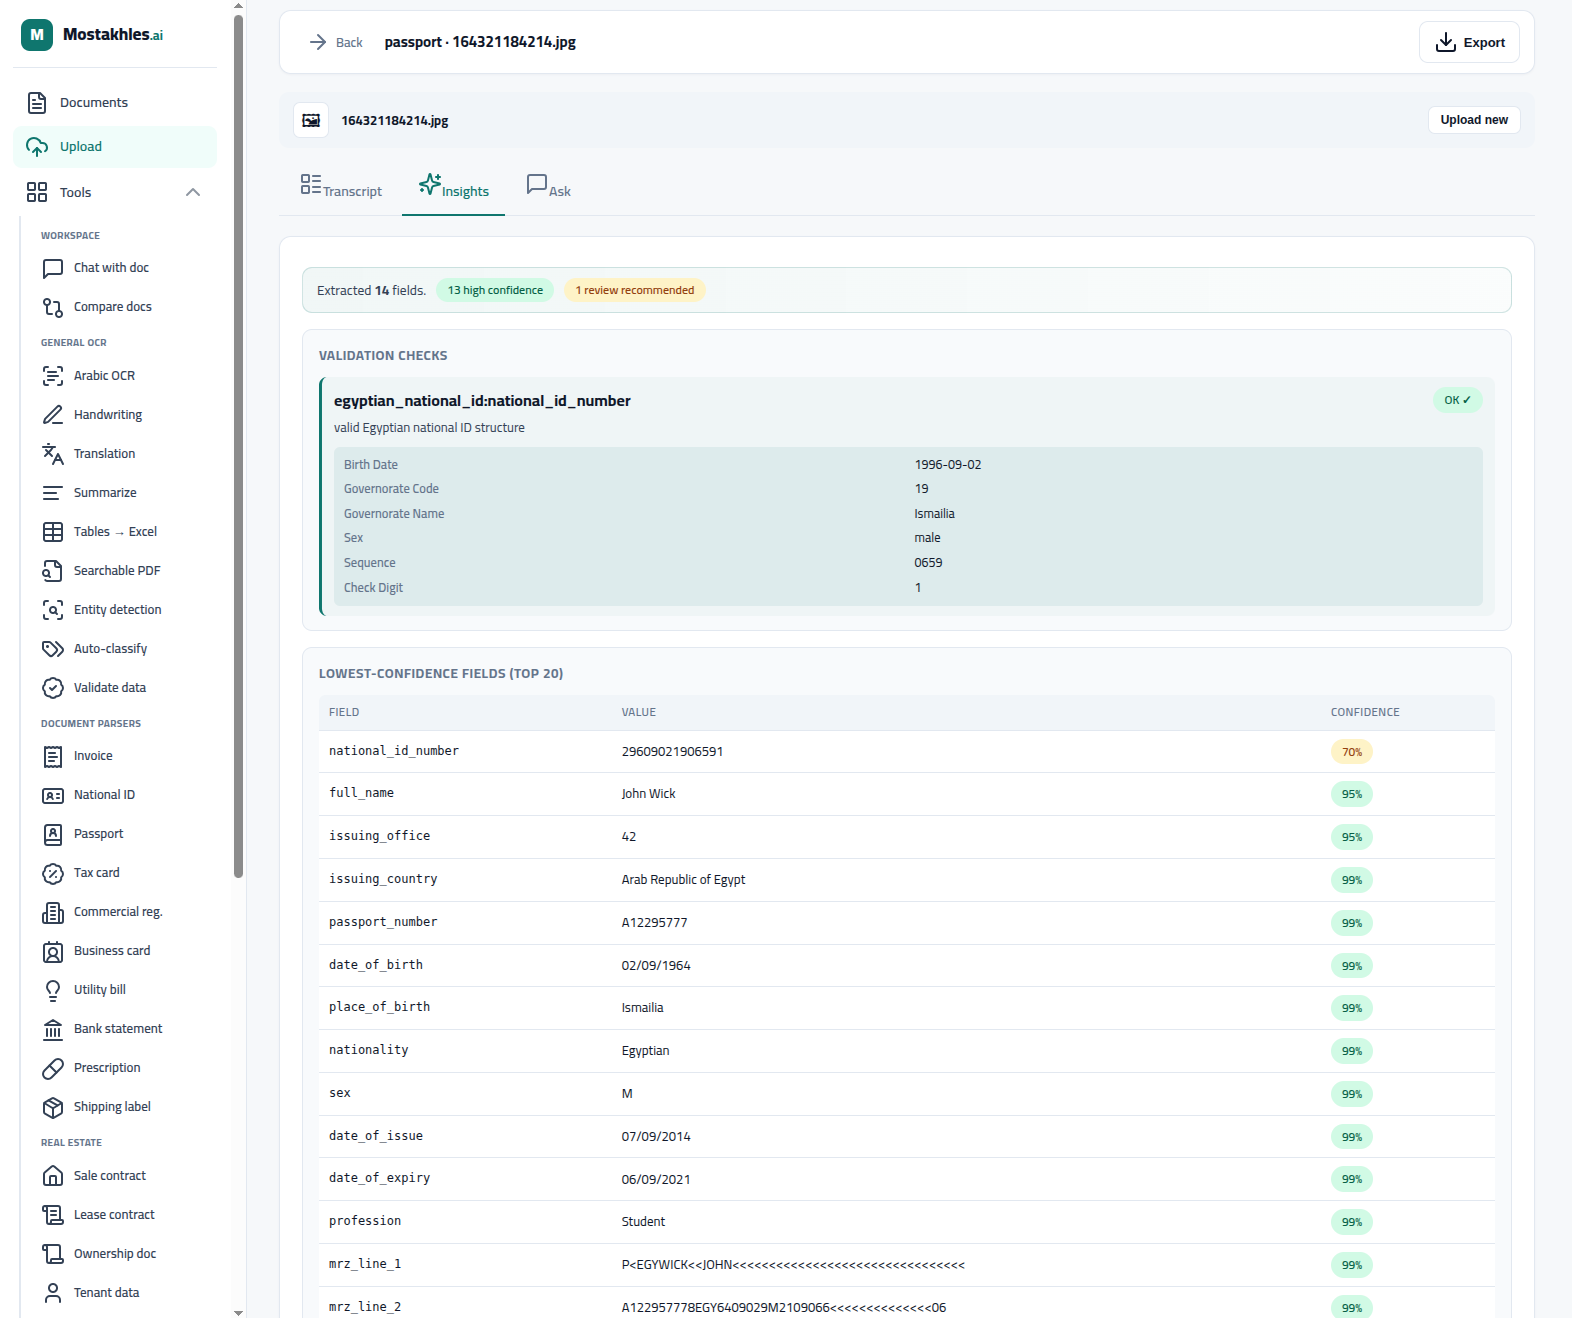
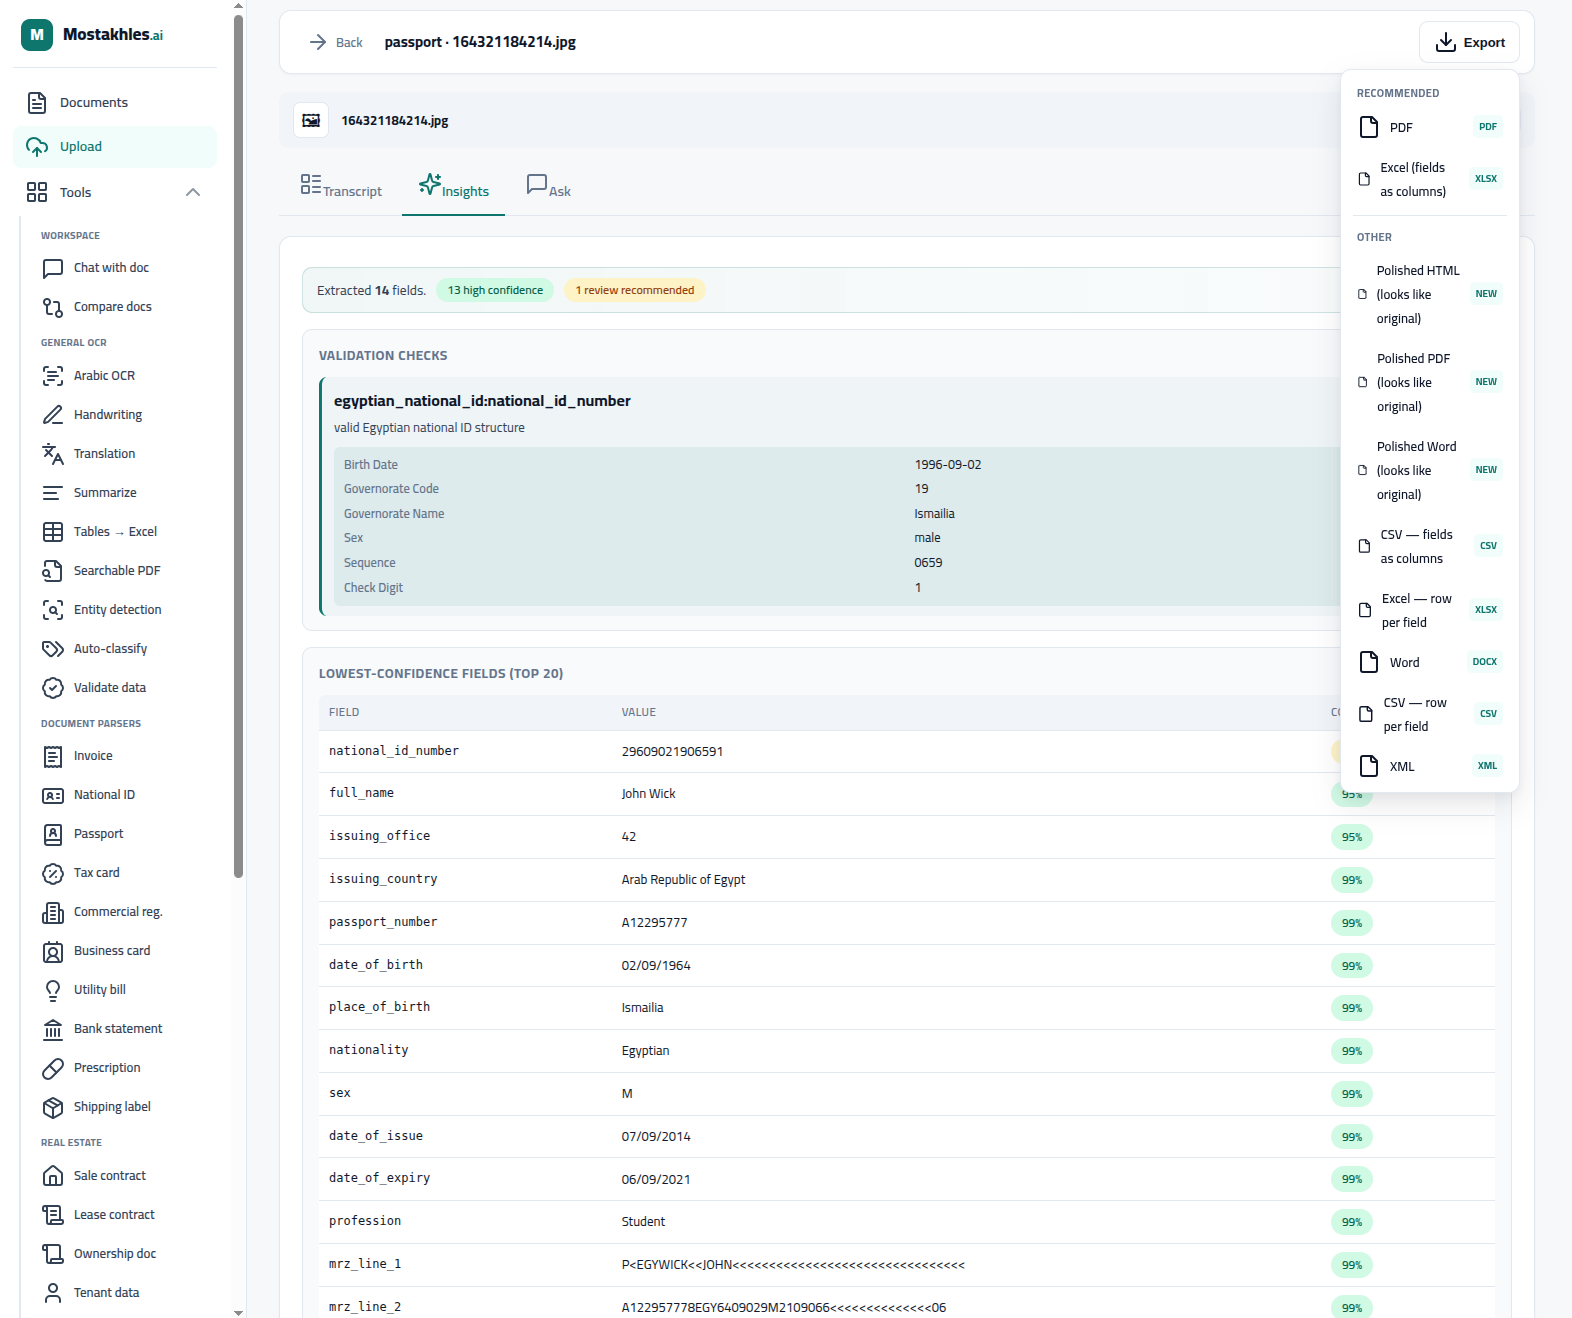
clickup-lockdown 16–18: hero shot swap, render fix, trust-bar rotator
Wave 18 — Trust bar: 3 rotating sets of 6 brand wordmarks on a 12s loop.
    Set A: Vodafone / STC / aramex / CIB / EFG Hermes / talabat
    Set B: Careem / e& etisalat / ADCB / mashreq / mada / JUMIA
    Set C: noon / Almarai / ADNOC / QNB / fawry / mobily
    Wordmarks are typographically styled (bold, lowercase, italic, letter-
    spacing per brand convention) — text only, no pixel-perfect logo art.
    Label softened from "TRUSTED BY" to "TRUSTED BY TEAMS AT" — implies
    individual usage at those companies, not a customer relationship.
    Real bug: CSS shorthand `animation:` in the parent rule reset
    animation-delay to 0s, and per-set delay rules had lower specificity
    (one class vs two) so they lost the cascade — all 3 sets cycled in
    lockstep. Fix: bump delay-rule specificity to .lp-hero-trust-rotator
    .lp-trust-set-X. Each set holds ~3.5s with ~0.5s cross-fade overlap.
    fill-mode: both + prefers-reduced-motion fallback + hover-pause.

  Wave 17 — Hero image: swap to Insights tab + export dropdown screenshot
    (less text density than the passport extraction view, marginally more
    legible at hero downscale).

  Wave 16 — CSS render fix: image-rendering: crisp-edges → auto on the
    hero shot. crisp-edges was forcing nearest-neighbour scaling, which
    shatters anti-aliased UI text on downscale. Default (bilinear/Lanczos)
    is the right choice for photographic screenshots. Comment in code
    explains the trap so it isn't reintroduced.

Changed region(s): [[0.8416, 0.1866, 0.9663, 0.6222], [0.8728, 0.0622, 0.9663, 0.0933], [0.8728, 0.1244, 0.9351, 0.1555]]

diff --git a/backend/app/static/css/style.css b/backend/app/static/css/style.css
@@ -8905,6 +8905,117 @@ html[lang="ar"] .lp-shot-dashboard .lp-shot-img  { background-image: url('/stati
   .lp-hero-trust-logos li { font-size: 13px; }
 }
 
+/* ════════════════════════════════════════════════════════════════
+   CLICKUP LOCKDOWN 18 — Trust bar rotator (3 sets × 6 brand wordmarks)
+   CSS-only fade cycle: 12s total, each set visible for ~3.5s with
+   1s overlap fades. Hover pauses the rotation.
+   Wordmarks use typographic styling per brand convention (bold,
+   lowercase, italic, letter-spacing) — text only, no logo art.
+   ════════════════════════════════════════════════════════════════ */
+
+.lp-hero-trust-rotator {
+  position: relative;
+  flex: 1 1 auto;
+  min-height: 32px;
+}
+
+.lp-hero-trust-rotator .lp-trust-set {
+  position: absolute;
+  inset: 0;
+  display: flex;
+  align-items: center;
+  justify-content: space-around;
+  gap: 22px;
+  margin: 0;
+  padding: 0;
+  list-style: none;
+  opacity: 0;
+  animation: lpTrustFade 12s linear infinite;
+  animation-fill-mode: both;
+}
+
+.lp-hero-trust-rotator .lp-trust-set li {
+  flex: 0 0 auto;
+}
+
+/* Each set holds ~33% of the 12s cycle (3.5s visible) with ~0.5s
+   cross-fade overlap at each boundary. Positive delays + fill-mode:both
+   keep sets B/C hidden during their pre-roll.
+   Specificity bumped to .lp-hero-trust-rotator .lp-trust-set-X to match the
+   parent rule above — without that, the shorthand `animation:` in the parent
+   resets delay back to 0s and all three sets cycle in lockstep. */
+.lp-hero-trust-rotator .lp-trust-set-a { animation-delay: 0s; }
+.lp-hero-trust-rotator .lp-trust-set-b { animation-delay: 4s; }
+.lp-hero-trust-rotator .lp-trust-set-c { animation-delay: 8s; }
+
+@keyframes lpTrustFade {
+  0%        { opacity: 0; }
+  4%, 33%   { opacity: 1; }
+  38%, 96%  { opacity: 0; }
+  100%      { opacity: 0; }
+}
+
+.lp-hero-trust-rotator:hover .lp-trust-set,
+.lp-hero-trust-rotator:focus-within .lp-trust-set {
+  animation-play-state: paused;
+}
+
+/* Wordmark base */
+.lp-trust-wm {
+  font-family: var(--cu-font-inter, Inter, system-ui, -apple-system, sans-serif);
+  font-size: 17px;
+  font-weight: 700;
+  color: #9ca3af;
+  letter-spacing: -0.005em;
+  white-space: nowrap;
+  transition: color .2s ease;
+  display: inline-block;
+}
+.lp-hero-trust-rotator:hover .lp-trust-wm { color: #475569; }
+[data-theme="dark"] .lp-trust-wm { color: #6b7280; }
+[data-theme="dark"] .lp-hero-trust-rotator:hover .lp-trust-wm { color: #94a3b8; }
+
+/* Per-brand typography hints (typography only, no logo art) */
+.lp-trust-wm-vodafone { font-weight: 800; letter-spacing: -0.015em; }
+.lp-trust-wm-stc      { font-weight: 800; letter-spacing: 0.04em; }
+.lp-trust-wm-aramex   { font-weight: 800; text-transform: lowercase; letter-spacing: 0; font-style: italic; }
+.lp-trust-wm-cib      { font-weight: 800; letter-spacing: 0.06em; }
+.lp-trust-wm-efg      { font-weight: 700; letter-spacing: 0.02em; }
+.lp-trust-wm-talabat  { font-weight: 800; text-transform: lowercase; letter-spacing: -0.01em; }
+
+.lp-trust-wm-careem   { font-weight: 700; letter-spacing: -0.015em; }
+.lp-trust-wm-etisalat { font-weight: 800; letter-spacing: -0.01em; display: inline-flex; align-items: baseline; gap: 4px; }
+.lp-trust-wm-etisalat em { font-size: 11px; font-style: normal; font-weight: 600; text-transform: lowercase; letter-spacing: 0; opacity: .85; }
+.lp-trust-wm-adcb     { font-weight: 800; letter-spacing: 0.05em; }
+.lp-trust-wm-mashreq  { font-weight: 800; text-transform: lowercase; letter-spacing: -0.005em; }
+.lp-trust-wm-mada     { font-weight: 800; text-transform: lowercase; letter-spacing: -0.01em; }
+.lp-trust-wm-jumia    { font-weight: 800; letter-spacing: 0.04em; }
+
+.lp-trust-wm-noon     { font-weight: 800; text-transform: lowercase; letter-spacing: -0.015em; }
+.lp-trust-wm-almarai  { font-weight: 700; letter-spacing: -0.005em; }
+.lp-trust-wm-adnoc    { font-weight: 800; letter-spacing: 0.06em; }
+.lp-trust-wm-qnb      { font-weight: 800; letter-spacing: 0.06em; }
+.lp-trust-wm-fawry    { font-weight: 800; text-transform: lowercase; letter-spacing: -0.01em; }
+.lp-trust-wm-mobily   { font-weight: 700; text-transform: lowercase; letter-spacing: 0; font-style: italic; }
+
+@media (max-width: 980px) {
+  .lp-hero-trust-rotator { min-height: 28px; }
+  .lp-trust-wm           { font-size: 15px; }
+  .lp-hero-trust-rotator .lp-trust-set { gap: 16px; }
+}
+
+@media (max-width: 640px) {
+  .lp-trust-wm                           { font-size: 13px; }
+  .lp-hero-trust-rotator .lp-trust-set   { gap: 12px; flex-wrap: wrap; justify-content: center; }
+  .lp-hero-trust-rotator                 { min-height: 56px; }
+}
+
+/* Respect users who prefer reduced motion — show first set only, no cycle */
+@media (prefers-reduced-motion: reduce) {
+  .lp-hero-trust-rotator .lp-trust-set { animation: none; opacity: 0; }
+  .lp-trust-set-a                      { opacity: 1; }
+}
+
 /* ─── 2. JSON result rows reveal — staggered typewriter ──────────── */
 .lp-shot-result-row {
   opacity: 0;
@@ -12603,8 +12714,10 @@ body,
   background-size: contain !important;
   background-position: top center !important;
   background-color: #fff;
-  image-rendering: -webkit-optimize-contrast;
-  image-rendering: crisp-edges;
+  /* Smooth high-quality downscaling — `crisp-edges` was wrong for screenshots
+     of anti-aliased UI; it forced nearest-neighbour and shattered the text.
+     Default rendering uses bilinear/Lanczos which is sharp for this content. */
+  image-rendering: auto;
 }
 
 /* Use the new image for both lang variants (English UI but content is universal) */

diff --git a/backend/app/templates/index.html b/backend/app/templates/index.html
@@ -583,15 +583,36 @@
        it can span the page width (ClickUp pattern). Label on the left,
        6 logos centered/distributed across the rest of the row. #}
     <section class="lp-hero-trustband">
-      <span class="lp-hero-trust-label">{{ 'TRUSTED BY' if lang == 'en' else 'يثق بها' }}</span>
-      <ul class="lp-hero-trust-logos">
-        <li>Vodafone</li>
-        <li>STC</li>
-        <li>aramex</li>
-        <li>CIB</li>
-        <li>EFG</li>
-        <li>talabat</li>
-      </ul>
+      <span class="lp-hero-trust-label">{{ 'TRUSTED BY TEAMS AT' if lang == 'en' else 'يستخدمه فِرَق في' }}</span>
+      <div class="lp-hero-trust-rotator">
+        {# Set A — Telecom · Logistics · Banking #}
+        <ul class="lp-hero-trust-logos lp-trust-set lp-trust-set-a">
+          <li><span class="lp-trust-wm lp-trust-wm-vodafone">Vodafone</span></li>
+          <li><span class="lp-trust-wm lp-trust-wm-stc">STC</span></li>
+          <li><span class="lp-trust-wm lp-trust-wm-aramex">aramex</span></li>
+          <li><span class="lp-trust-wm lp-trust-wm-cib">CIB</span></li>
+          <li><span class="lp-trust-wm lp-trust-wm-efg">EFG Hermes</span></li>
+          <li><span class="lp-trust-wm lp-trust-wm-talabat">talabat</span></li>
+        </ul>
+        {# Set B — E-commerce · Banking · Payments #}
+        <ul class="lp-hero-trust-logos lp-trust-set lp-trust-set-b">
+          <li><span class="lp-trust-wm lp-trust-wm-careem">Careem</span></li>
+          <li><span class="lp-trust-wm lp-trust-wm-etisalat">e&amp; <em>etisalat</em></span></li>
+          <li><span class="lp-trust-wm lp-trust-wm-adcb">ADCB</span></li>
+          <li><span class="lp-trust-wm lp-trust-wm-mashreq">mashreq</span></li>
+          <li><span class="lp-trust-wm lp-trust-wm-mada">mada</span></li>
+          <li><span class="lp-trust-wm lp-trust-wm-jumia">JUMIA</span></li>
+        </ul>
+        {# Set C — Retail · Energy · Delivery #}
+        <ul class="lp-hero-trust-logos lp-trust-set lp-trust-set-c">
+          <li><span class="lp-trust-wm lp-trust-wm-noon">noon</span></li>
+          <li><span class="lp-trust-wm lp-trust-wm-almarai">Almarai</span></li>
+          <li><span class="lp-trust-wm lp-trust-wm-adnoc">ADNOC</span></li>
+          <li><span class="lp-trust-wm lp-trust-wm-qnb">QNB</span></li>
+          <li><span class="lp-trust-wm lp-trust-wm-fawry">fawry</span></li>
+          <li><span class="lp-trust-wm lp-trust-wm-mobily">mobily</span></li>
+        </ul>
+      </div>
     </section>
 
     {# Trust-band section below is HIDDEN — its content moved into the hero
